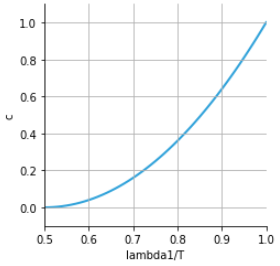
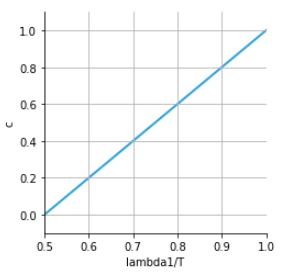
edit 3d formulas

Changed region(s): [[0.0571, 0.0, 1.0, 0.9925], [0.2571, 0.5714, 0.4, 0.6917], [0.0, 0.4211, 0.0571, 0.4812]]

diff --git a/blog/coherence.html b/blog/coherence.html
@@ -159,10 +159,16 @@
 
             \begin{equation*}
             c = \left(\frac{\lambda_1 - \lambda_2}{\lambda_1 + 
-                \lambda_2}\right)^2
+                \lambda_2}\right) \tag{left plot}
             \end{equation*}
 
-            <img src="./resources/coherence_2d.png"> <br><br>
+            \begin{equation*}
+            c = \left(\frac{\lambda_1 - \lambda_2}{\lambda_1 + 
+                \lambda_2}\right)^2 \tag{right plot}
+            \end{equation*}
+
+            <img src="./resources/coherence_2d.png">
+            <img src="./resources/coherence_2d_sq.png"> <br><br>
             Total variance $T = \lambda_1 + \lambda_2$
         </p>
     </section>
@@ -190,17 +196,26 @@
             \end{equation*}
 
             If $\lambda_1 >> \lambda_2, \lambda_3$ then coherence should be
-            high ($\lambda_1 \approx \lambda_2 \approx \lambda_3$, low). A
-            plausible formula for 3D coherence is:
+            high ($\lambda_1 \approx \lambda_2 \approx \lambda_3$, low). Two
+            plausible formulae for 3D coherence are:
 
             \begin{equation*}
-            c = \left(\frac{\lambda_1 - (\lambda_2 + \lambda_3)}{
-                \lambda_1 + \lambda_2 + \lambda_3}\right)^2
-            \end{equation*}
+            c = \left(\frac{\lambda_1 - \lambda_2}{
+                \lambda_1 + \lambda_2 + \lambda_3}\right) \tag{left plot}
+            \end{equation*} 
 
-            <img src="./resources/coherence_3d.png"> <br><br>
+            \begin{equation*}
+            c = \left(\frac{\lambda_1 - \lambda_2}{
+                \lambda_1 + \lambda_2 + \lambda_3}\right)^2 \tag{right plot}
+            \end{equation*}
             
-            These are the contraints used to generate the plot above. <br><br>
+            
+            <br><br>
+
+            <img src="./resources/coherence_3d.png"> 
+            <img src="./resources/coherence_3d_sq.png"> <br><br>
+            
+            These are the contraints used to generate the plots above. <br><br>
             Contraint on $\lambda_1$: $1/3 \leq \lambda_1/T \leq 1$ <br><br>
             Contraints on $\lambda_2$: <br><br>
 
